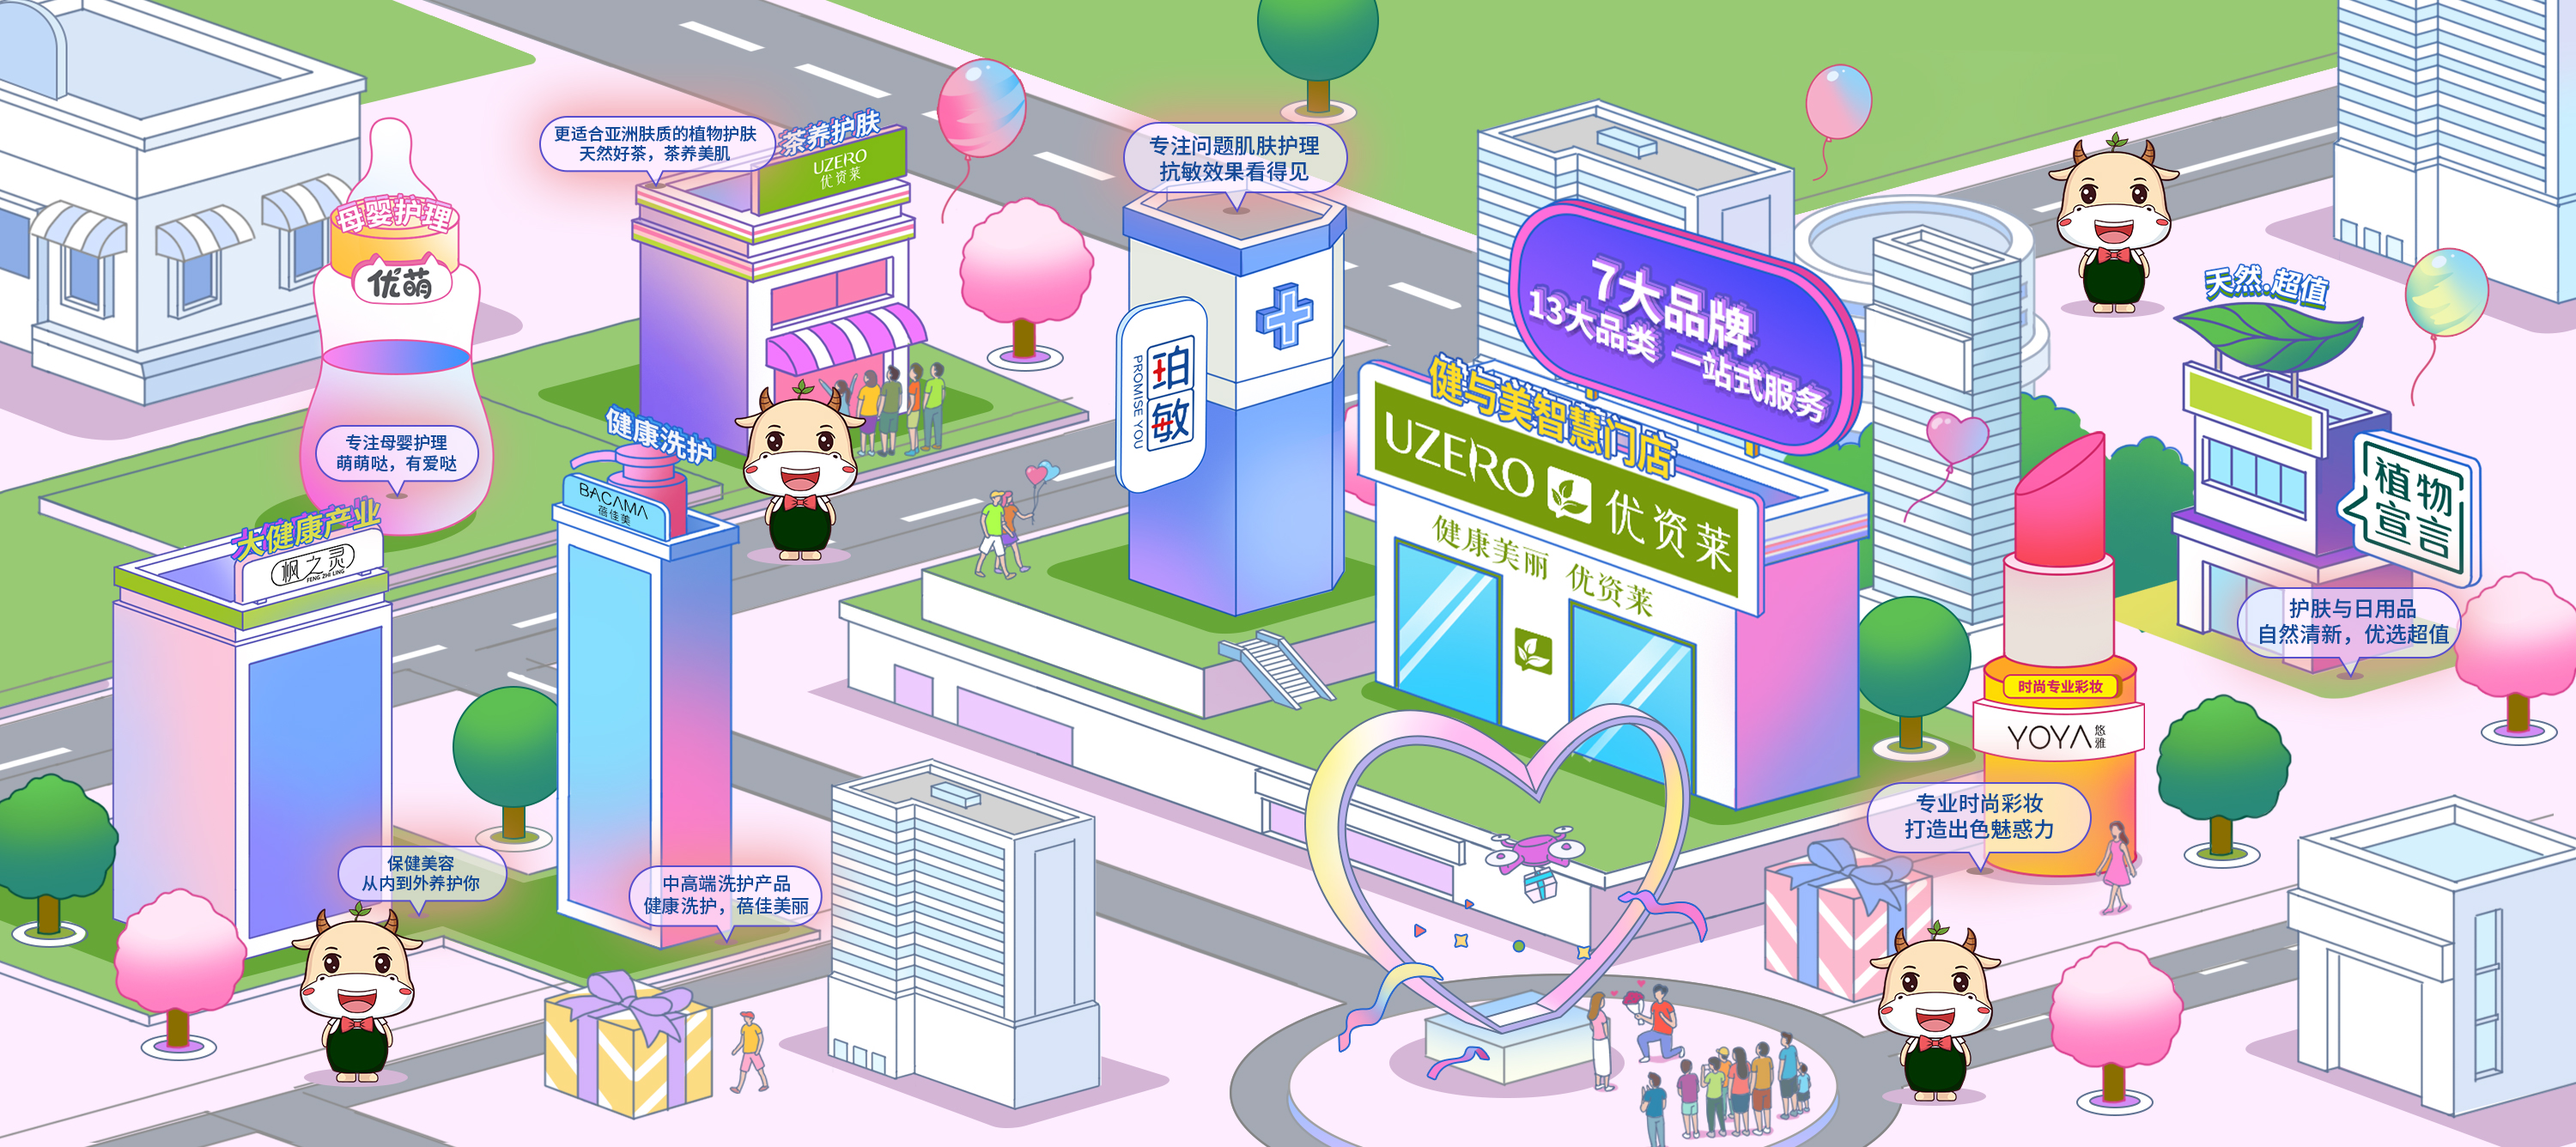
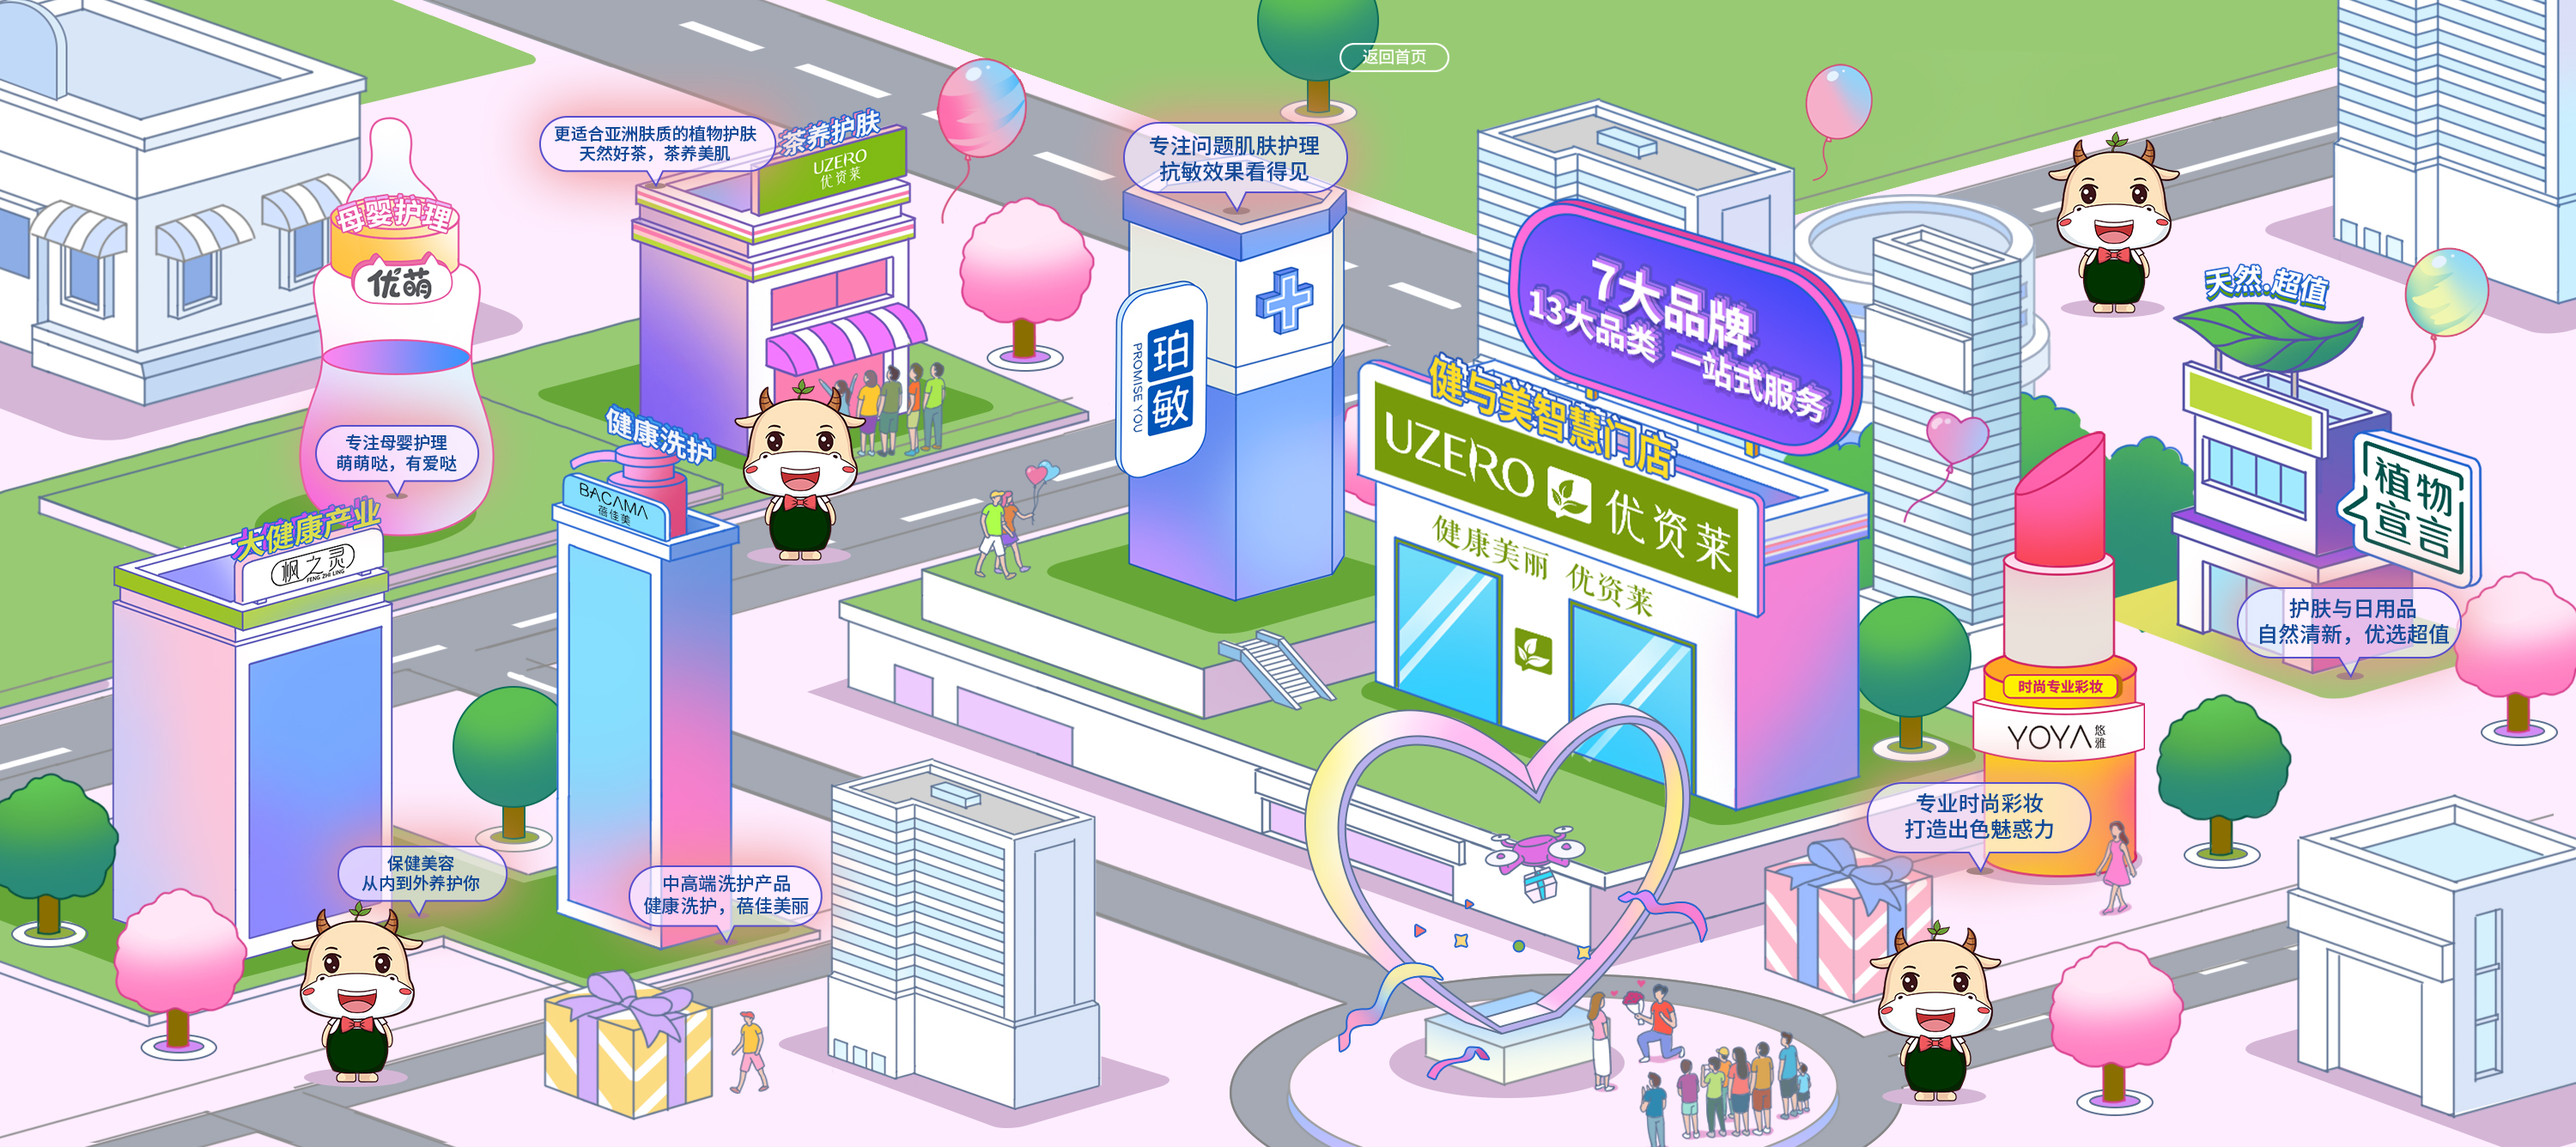
1111

Changed region(s): [[0.434, 0.1228, 0.527, 0.4296], [0.434, 0.491, 0.527, 0.5524], [0.527, 0.0307, 0.558, 0.0614]]

diff --git a/src/GameLayer.ts b/src/GameLayer.ts
@@ -17,16 +17,33 @@ export class GameLayer extends Scene {
             this.guideGp.visible = false
         }
 
+
+        jinx.addTapEvent(this.backBtn, backHome, this)
     }
 
-    private guideTxtImg:eui.Image
+    private backBtn:eui.Button
+
+    private guideTxGp:eui.Group
+    private aniGuideStar() {
+        for(let idx = 1; idx < this.guideTxGp.numChildren; idx++) {
+            let star = this.guideTxGp.getChildAt(idx)
+            let oldy = star.y
+            setTimeout(function() {
+                egret.Tween.get(star, {loop: true})
+                .to({y: oldy - 20}, 400)
+                .to({y: oldy}, 400)
+                .wait(100)
+            }, idx * 150);
+        }
+    }
     private aniGuide() {
-        this.guideTxtImg.scaleY = 0
+        this.guideTxGp.scaleY = 0
 
         setTimeout(function() {
-            egret.Tween.get(this.guideTxtImg) 
+            egret.Tween.get(this.guideTxGp) 
             .to({scaleY: 1.2}, 200)
             .to({scaleY: 1}, 200)
+            .call(this.aniGuideStar, this)
             console.log('sdfsdf')
         }.bind(this), 200);
     }

diff --git a/src/ShopDescLayer.ts b/src/ShopDescLayer.ts
@@ -42,18 +42,22 @@ export class ShopDescLayer extends Dlg {
 
         sarea.addSelEventListener(this.onArea.bind(this))
         sarea.init(areaData, 2, 'area')
-        this.shenInp.text = '上海'
-        this.shiInp.text = '上海'
+        // this.shenInp.text = '上海'
+        // this.shiInp.text = '上海'
+        this.shenInp.text = '点击选择省'
+        this.shiInp.text = '点击选择市/区'
         // this.quInp.text = '松江区'
-        this.getCurSinfo()
+        this.getCurSinfo('上海', '上海')
         jinx.addTapEvent(this.areaBtn, this.ontapArea, this)
 
         this.scroll.scrollPolicyH = eui.ScrollPolicy.OFF //水平方向不给滑动
     }
 
-    private getCurSinfo() {
+    private getCurSinfo(shen?:string, shi?:string) {
         // [this.quInp.text]['items']
-        var olist = areaData[this.shenInp.text]['items'][this.shiInp.text]['items'] || []
+        shen = shen || this.shenInp.text
+        shi = shi || this.shiInp.text
+        var olist = areaData[shen]['items'][shi]['items'] || []
 
         this.scrollGp.removeChildren()
         

diff --git a/css/index.css b/css/index.css
@@ -62,7 +62,7 @@ body {
   z-index: 10;
   width: 100%;
   height: 100%;
-  background-image: url('../resource/bg_l.jpg?1556434470');
+  background-image: url('../resource/bg_l.jpg?1556502952');
   background-size: cover;
   display: flex;
   align-items: center;
@@ -81,7 +81,7 @@ body {
 .scene-loading .yh {
   width: 4.42rem;
   height: 4.42rem;
-  background: url('../resource/yh.png?1556434470') no-repeat;
+  background: url('../resource/yh.png?1556502952') no-repeat;
   background-size: 100% 100%;
   position: relative;
   top: 20%;
@@ -89,7 +89,7 @@ body {
 .scene-loading .by {
   width: 4.42rem;
   height: 4.42rem;
-  background: url('../resource/by.png?1556434470') no-repeat;
+  background: url('../resource/by.png?1556502952') no-repeat;
   background-size: 100% 100%;
   position: absolute;
   margin: auto;
@@ -110,7 +110,7 @@ body {
 }
 .scene-loading .logo {
   margin: auto;
-  background: url('../resource/logo.png?1556434470') no-repeat;
+  background: url('../resource/logo.png?1556502952') no-repeat;
   background-size: 100% 100%;
   width: 3.01rem;
   height: 0.42rem;

diff --git a/index.html b/index.html
@@ -10,7 +10,7 @@
 <meta name="x5-fullscreen" content="true" />
 <meta name="360-fullscreen" content="true" />
 <link rel="stylesheet" type="text/css" href="css/sarea.css">
-<link rel="stylesheet" type="text/css" href="css/index.css?1556434470" />
+<link rel="stylesheet" type="text/css" href="css/index.css?1556502952" />
 <!--kone todo :以后不默认加派加统计了-->
 </head>
 <body>
@@ -37,7 +37,7 @@
 
 <!---->
 <script>
-    var BIN_VER = 1556434470
+    var BIN_VER = 1556502952
     var carry;
     !function(carry) {
         carry.loadImgByAry = function(imgAry, func) {
@@ -108,7 +108,7 @@
 
         //init carry & HDP平台        
         var cryjs = 'public/carry.min.js?' + BIN_VER
-        var asUrl = 'interface/as-520.js?1556434470'
+        var asUrl = 'interface/as-520.js?1556502952'
         if(carry.isLocal) {
             cryjs = 'public/carry.js'
             asUrl = 'interface/asLocal-tmp.js'

diff --git a/src/PosterLayer.ts b/src/PosterLayer.ts
@@ -56,6 +56,8 @@ export class PosterLayer extends Scene {
 
     private ghwzBtn:eui.Button
     private zdyBtn:eui.Button
+    private backBtn:eui.Button
+
 
     private ontapGHWZ() {
         uiMgr.open(DlgId.ghwz)
@@ -86,11 +88,15 @@ export class PosterLayer extends Scene {
 
             this.ghwzBtn.visible = true
             this.zdyBtn.visible = true
+            this.backBtn.visible = true
             jinx.addTapEvent(this.ghwzBtn, this.ontapGHWZ, this)
             jinx.addTapEvent(this.zdyBtn, this.ontapZDY, this)
+            jinx.addTapEvent(this.backBtn, backHome, this)
+
         } else {
             this.ghwzBtn.visible = false
             this.zdyBtn.visible = false
+            this.backBtn.visible = false
         }
 
         this.nameLb.text = as.wxUserInfo.nickname

diff --git a/src/HomeLayer.ts b/src/HomeLayer.ts
@@ -6,6 +6,8 @@ export function backHome() {
     uiMgr.closeAll()
 }
 
+var isFirstHome:boolean = true
+
 export class HomeLayer extends Scene {
     private loveBtn:eui.Button
     private find520Btn:eui.Button
@@ -56,6 +58,11 @@ export class HomeLayer extends Scene {
         jinx.addTapEvent(this.find520Btn, this.ontapFind520, this)
         jinx.addTapEvent(this.myPrizeBtn, this.ontapMyprize, this)
         jinx.addTapEvent(this.ruleBtn, this.ontapRule, this)
+
+        if(isFirstHome) {
+            isFirstHome = false
+            uiMgr.open(DlgId.homedesc, null, UiAni.nil)
+        }
     }
 
     // 

diff --git a/src/UiMgr.ts b/src/UiMgr.ts
@@ -8,6 +8,7 @@ export const enum SceneId {
     game
 } 
 export const enum DlgId {
+    homedesc,
     prod,
     win52,
     box520,
@@ -52,6 +53,9 @@ class UiMgr extends BaseUiMgr {
     public createDlg(dlgId:DlgId, parm):Dlg {
         let ui:Dlg;
         switch(dlgId) {
+            case DlgId.homedesc:
+                ui = new HomeDescLayer()
+                break
             case DlgId.prod:
                 ui = new ProdLayer(parm)
                 break

diff --git a/src/HomeDescLayer.ts b/src/HomeDescLayer.ts
@@ -1,0 +1,17 @@
+
+namespace pgame {
+export class HomeDescLayer extends Dlg {
+    // private closeBtn:eui.Button
+
+    public fitUi() {
+    }
+
+    constructor() {
+        super(HomeDescLayerSkin)
+
+        this.top = this.bottom = this.left = this.right = 0
+
+        jinx.addTapEvent(this, this.ontapClose, this)
+    }
+}   //end of class
+}   //end of module

diff --git a/libs/exml.e.d.ts b/libs/exml.e.d.ts
@@ -64,6 +64,8 @@ declare class GameMapSkin extends eui.Skin{
 }
 declare class GhwzLayerSkin extends eui.Skin{
 }
+declare class HomeDescLayerSkin extends eui.Skin{
+}
 declare class HomeLayerSkin extends eui.Skin{
 }
 declare class LoseLayerSkin extends eui.Skin{
